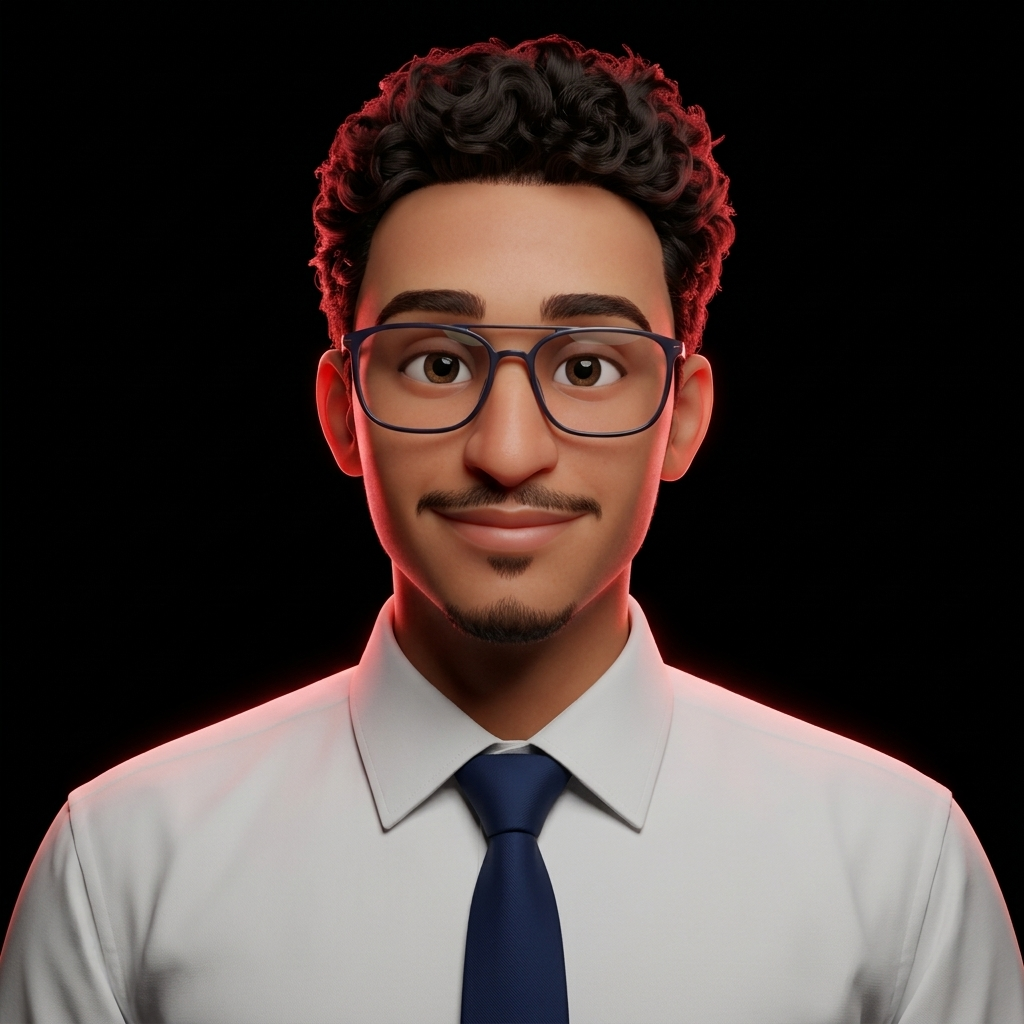
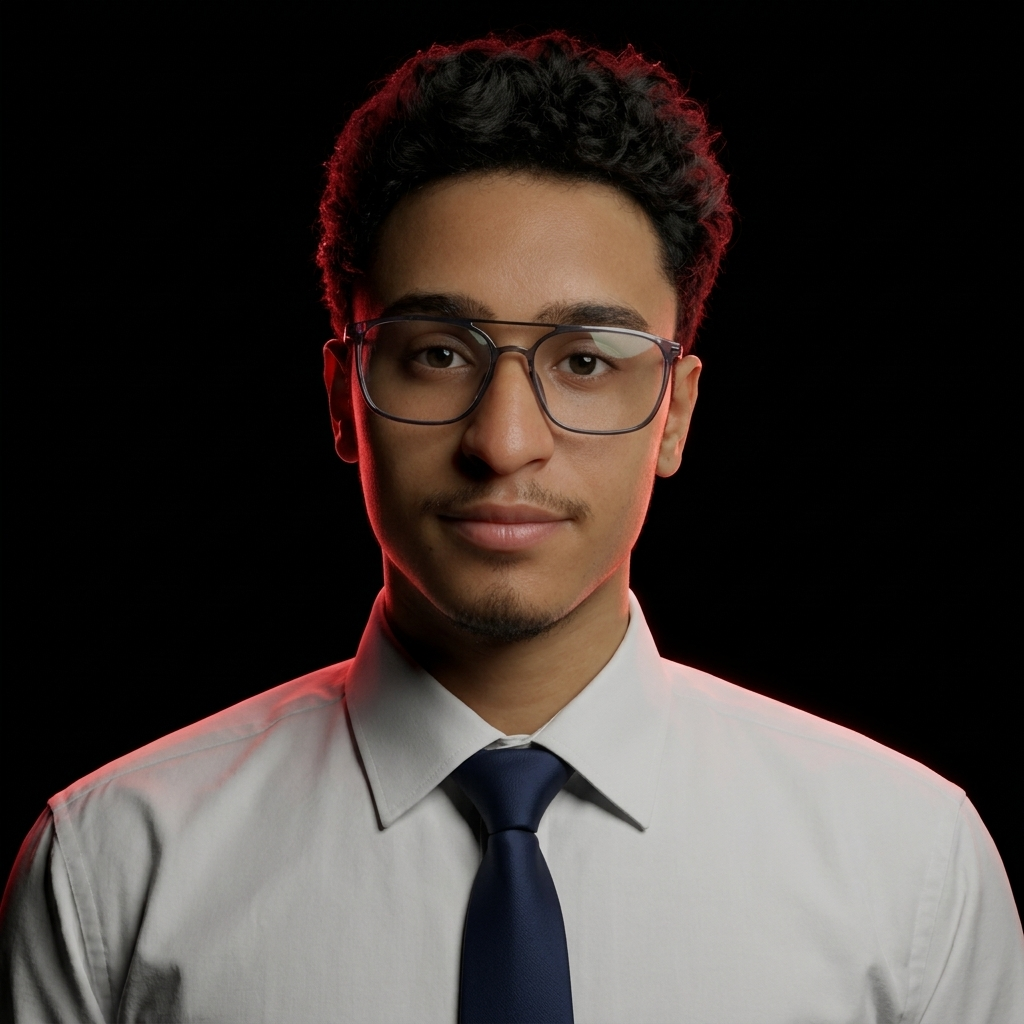
feat: use realistic 3D portrait and add interactive 360 horizontal 3D drag rotation in Hero

Changed region(s): [[0.0, 0.0312, 1.0, 1.0], [0.5312, 0.8438, 0.5625, 1.0]]

diff --git a/src/components/Hero.tsx b/src/components/Hero.tsx
@@ -1,6 +1,6 @@
-import { useRef } from 'react';
+import { useRef, useState } from 'react';
 import { motion, useMotionValue, useScroll, useSpring, useTransform } from 'framer-motion';
-import { achievements, certifications, education, profile, projects, type ProfileId } from '../data/portfolio';
+import { achievements, education, profile, projects, type ProfileId } from '../data/portfolio';
 import { useFinePointer } from '../hooks/useMedia';
 import { useSmoothScroll } from '../hooks/smoothScroll';
 import { EASE, Magnetic, Particles } from './fx';
@@ -29,24 +29,32 @@ export default function Hero({ onPlay, onResume, profileId }: { onPlay: () => vo
   const my = useMotionValue(0);
   const px = useSpring(mx, { stiffness: 60, damping: 18 });
   const py = useSpring(my, { stiffness: 60, damping: 18 });
-  const imgRotY = useTransform(px, [-1, 1], [-4, 4]);
+  const parallaxRotY = useTransform(px, [-1, 1], [-4, 4]);
   const imgRotX = useTransform(py, [-1, 1], [3, -3]);
   const imgShiftX = useTransform(px, [-1, 1], [-10, 10]);
   const chipX = useTransform(px, [-1, 1], [18, -18]);
   const chipY = useTransform(py, [-1, 1], [12, -12]);
   const glowX = useTransform(px, [-1, 1], ['-6%', '6%']);
 
+  // interactive horizontal 3D drag rotation (mouse & touch)
+  const manualRotY = useMotionValue(0);
+  const springRotY = useSpring(manualRotY, { stiffness: 120, damping: 18 });
+  const imgRotY = useTransform([parallaxRotY, springRotY], ([p, m]: number[]) => p + m);
+  const dragState = useRef<{ active: boolean; startX: number; baseRot: number }>({ active: false, startX: 0, baseRot: 0 });
+  const [isDragging, setIsDragging] = useState(false);
+  const [hasRotated, setHasRotated] = useState(false);
+
   const meta = [
-    education[0].period.split(' – ')[0].split(' ')[1] + ' – Present',
-    'B.Tech AI & ML',
+    education[0].period,
+    'CSE Diploma',
     `${projects.length} Originals`,
-    `${certifications.length} Certifications`,
+    'Rewari, Haryana',
   ];
 
   const floating = [
-    { text: education[0].score, sub: 'B.Tech AI & ML', pos: 'left-[2%] top-[30%]', depth: 1 },
+    { text: education[0].score, sub: 'Govt. Polytechnic Lisana', pos: 'left-[2%] top-[30%]', depth: 1 },
     { text: `${achievements[0].title}`, sub: achievements[0].org, pos: 'right-[0%] top-[18%]', depth: -1 },
-    { text: 'Java · React · Node.js', sub: 'Primary stack', pos: 'right-[4%] bottom-[24%]', depth: 0.6 },
+    { text: 'Python · Flask · JS', sub: 'Primary stack', pos: 'right-[4%] bottom-[24%]', depth: 0.6 },
   ];
 
   return (
@@ -72,36 +80,114 @@ export default function Hero({ onPlay, onResume, profileId }: { onPlay: () => vo
         <span className="light-streak left-[55%] top-[44%] w-[30vw]" style={{ animationDelay: '5.2s' }} />
       </div>
 
-      {/* portrait */}
+      {/* interactive 3D rotatable portrait */}
       <motion.div
-        className="absolute inset-x-0 top-12 z-[2] flex h-[64svh] items-end justify-center sm:h-[70svh] lg:bottom-0 lg:left-auto lg:right-[3vw] lg:top-20 lg:h-auto lg:w-[54vw] xl:right-[6vw] xl:w-[48vw]"
+        className={`absolute inset-x-0 top-12 z-[5] flex h-[54svh] select-none items-end justify-center sm:h-[64svh] lg:bottom-0 lg:left-auto lg:right-[3vw] lg:top-20 lg:h-auto lg:w-[54vw] xl:right-[6vw] xl:w-[48vw] touch-pan-y ${
+          isDragging ? 'cursor-grabbing' : 'cursor-grab'
+        }`}
         style={{ y: imgY, scale: imgScale, opacity: fade }}
+        onPointerDown={(e) => {
+          dragState.current = { active: true, startX: e.clientX, baseRot: manualRotY.get() };
+          setIsDragging(true);
+          e.currentTarget.setPointerCapture(e.pointerId);
+        }}
+        onPointerMove={(e) => {
+          if (!dragState.current.active) return;
+          const delta = e.clientX - dragState.current.startX;
+          manualRotY.set(dragState.current.baseRot + delta * 0.65);
+          if (Math.abs(delta) > 6 && !hasRotated) setHasRotated(true);
+        }}
+        onPointerUp={(e) => {
+          if (!dragState.current.active) return;
+          dragState.current.active = false;
+          setIsDragging(false);
+          try {
+            e.currentTarget.releasePointerCapture(e.pointerId);
+          } catch {
+            /* ignore */
+          }
+        }}
+        onPointerCancel={() => {
+          dragState.current.active = false;
+          setIsDragging(false);
+        }}
+        onDoubleClick={() => {
+          manualRotY.set(0);
+          setHasRotated(false);
+        }}
       >
         <motion.div
           className="relative h-full w-full lg:h-[86vh]"
-          style={{ rotateY: imgRotY, rotateX: imgRotX, x: imgShiftX, transformPerspective: 1200 }}
+          style={{
+            rotateY: imgRotY,
+            rotateX: imgRotX,
+            x: imgShiftX,
+            transformPerspective: 1200,
+            transformStyle: 'preserve-3d',
+          }}
           initial={{ clipPath: 'inset(100% -30% -10% -30%)', opacity: 0 }}
           animate={{ clipPath: 'inset(-30% -30% -10% -30%)', opacity: 1 }}
           transition={{ duration: 1.6, ease: EASE, delay: 0.1 }}
         >
-          {/* rim light ring */}
-          <div aria-hidden className="absolute bottom-[8%] left-1/2 h-[78%] w-[78%] -translate-x-1/2 rounded-full border border-crimson-2/20 shadow-[0_0_120px_rgba(229,19,43,0.35),inset_0_0_80px_rgba(229,19,43,0.18)]" />
-          <img
-            src={profile.portrait.src}
-            srcSet={profile.portrait.srcSet}
-            sizes="(max-width: 1024px) 100vw, 54vw"
-            alt={profile.portrait.alt}
-
-            className="absolute bottom-0 left-1/2 h-full w-auto max-w-none -translate-x-1/2 object-contain object-bottom drop-shadow-[0_30px_60px_rgba(0,0,0,0.6)] [mask-image:linear-gradient(to_bottom,black_62%,transparent_97%)]"
+          {/* rim light ring (recessed slightly in Z-depth for 3D parallax) */}
+          <div
+            aria-hidden
+            className="absolute bottom-[8%] left-1/2 h-[78%] w-[78%] -translate-x-1/2 rounded-full border border-crimson-2/25 shadow-[0_0_120px_rgba(229,19,43,0.38),inset_0_0_80px_rgba(229,19,43,0.2)]"
+            style={{ transform: 'translateZ(-36px)' }}
           />
-          {/* crimson rim light on the image edge */}
-          <div aria-hidden className="pointer-events-none absolute inset-0 bg-[radial-gradient(60%_50%_at_80%_30%,rgba(255,61,90,0.16),transparent_70%)] mix-blend-screen" />
+
+          {/* Front 3D Portrait Face */}
+          <div className="absolute inset-0" style={{ backfaceVisibility: 'hidden', transform: 'translateZ(18px)' }}>
+            <img
+              src={profile.portrait.src}
+              srcSet={profile.portrait.srcSet}
+              sizes="(max-width: 1024px) 100vw, 54vw"
+              alt={profile.portrait.alt}
+              draggable={false}
+              className="pointer-events-none absolute bottom-0 left-1/2 h-full w-auto max-w-none -translate-x-1/2 object-contain object-bottom drop-shadow-[0_30px_60px_rgba(0,0,0,0.6)] [mask-image:linear-gradient(to_bottom,black_62%,transparent_97%)]"
+            />
+            <div aria-hidden className="pointer-events-none absolute inset-0 bg-[radial-gradient(60%_50%_at_80%_30%,rgba(255,61,90,0.16),transparent_70%)] mix-blend-screen" />
+          </div>
+
+          {/* Back 3D Face (revealed when rotated 180° horizontally) */}
+          <div
+            className="absolute inset-0 flex items-center justify-center"
+            style={{ backfaceVisibility: 'hidden', transform: 'rotateY(180deg) translateZ(18px)' }}
+          >
+            <div className="glass flex h-[62%] w-[70%] max-w-[340px] flex-col items-center justify-center rounded-3xl border border-crimson-2/30 bg-[radial-gradient(circle_at_50%_20%,rgba(229,19,43,0.28),rgba(10,10,16,0.94))] p-6 text-center shadow-[0_24px_80px_rgba(229,19,43,0.25)]">
+              <span className="font-display text-6xl text-crimson-2">S</span>
+              <p className="mt-2 font-display text-3xl tracking-wider text-bone">{profile.firstName}</p>
+              <p className="mt-1 text-[10px] font-bold uppercase tracking-[0.36em] text-crimson-2">{profile.originalLabel}</p>
+              <p className="mt-4 text-xs leading-relaxed text-mist">{profile.role} · {profile.location}</p>
+              <span className="mt-5 rounded-full border border-white/15 px-3 py-1 text-[10px] font-semibold tracking-[0.2em] text-smoke">
+                ↔ DRAG TO SPIN BACK
+              </span>
+            </div>
+          </div>
 
           {/* floating UI chips */}
           {floating.map((f, i) => (
             <FloatChip key={f.text} {...f} index={i} mx={chipX} my={chipY} />
           ))}
         </motion.div>
+
+        {/* subtle interactive 3D rotation hint */}
+        <div className="pointer-events-auto absolute bottom-3 left-1/2 z-20 flex -translate-x-1/2 items-center gap-2 rounded-full border border-white/15 bg-black/55 px-3.5 py-1.5 text-[10px] font-semibold tracking-[0.18em] text-mist backdrop-blur-md">
+          <span>↔ DRAG TO ROTATE 3D</span>
+          {hasRotated && (
+            <button
+              type="button"
+              onClick={(e) => {
+                e.stopPropagation();
+                manualRotY.set(0);
+                setHasRotated(false);
+              }}
+              className="rounded-full bg-crimson/80 px-2 py-0.5 text-[9px] text-white transition hover:bg-crimson"
+            >
+              RESET
+            </button>
+          )}
+        </div>
       </motion.div>
 
       {/* readability gradients */}
